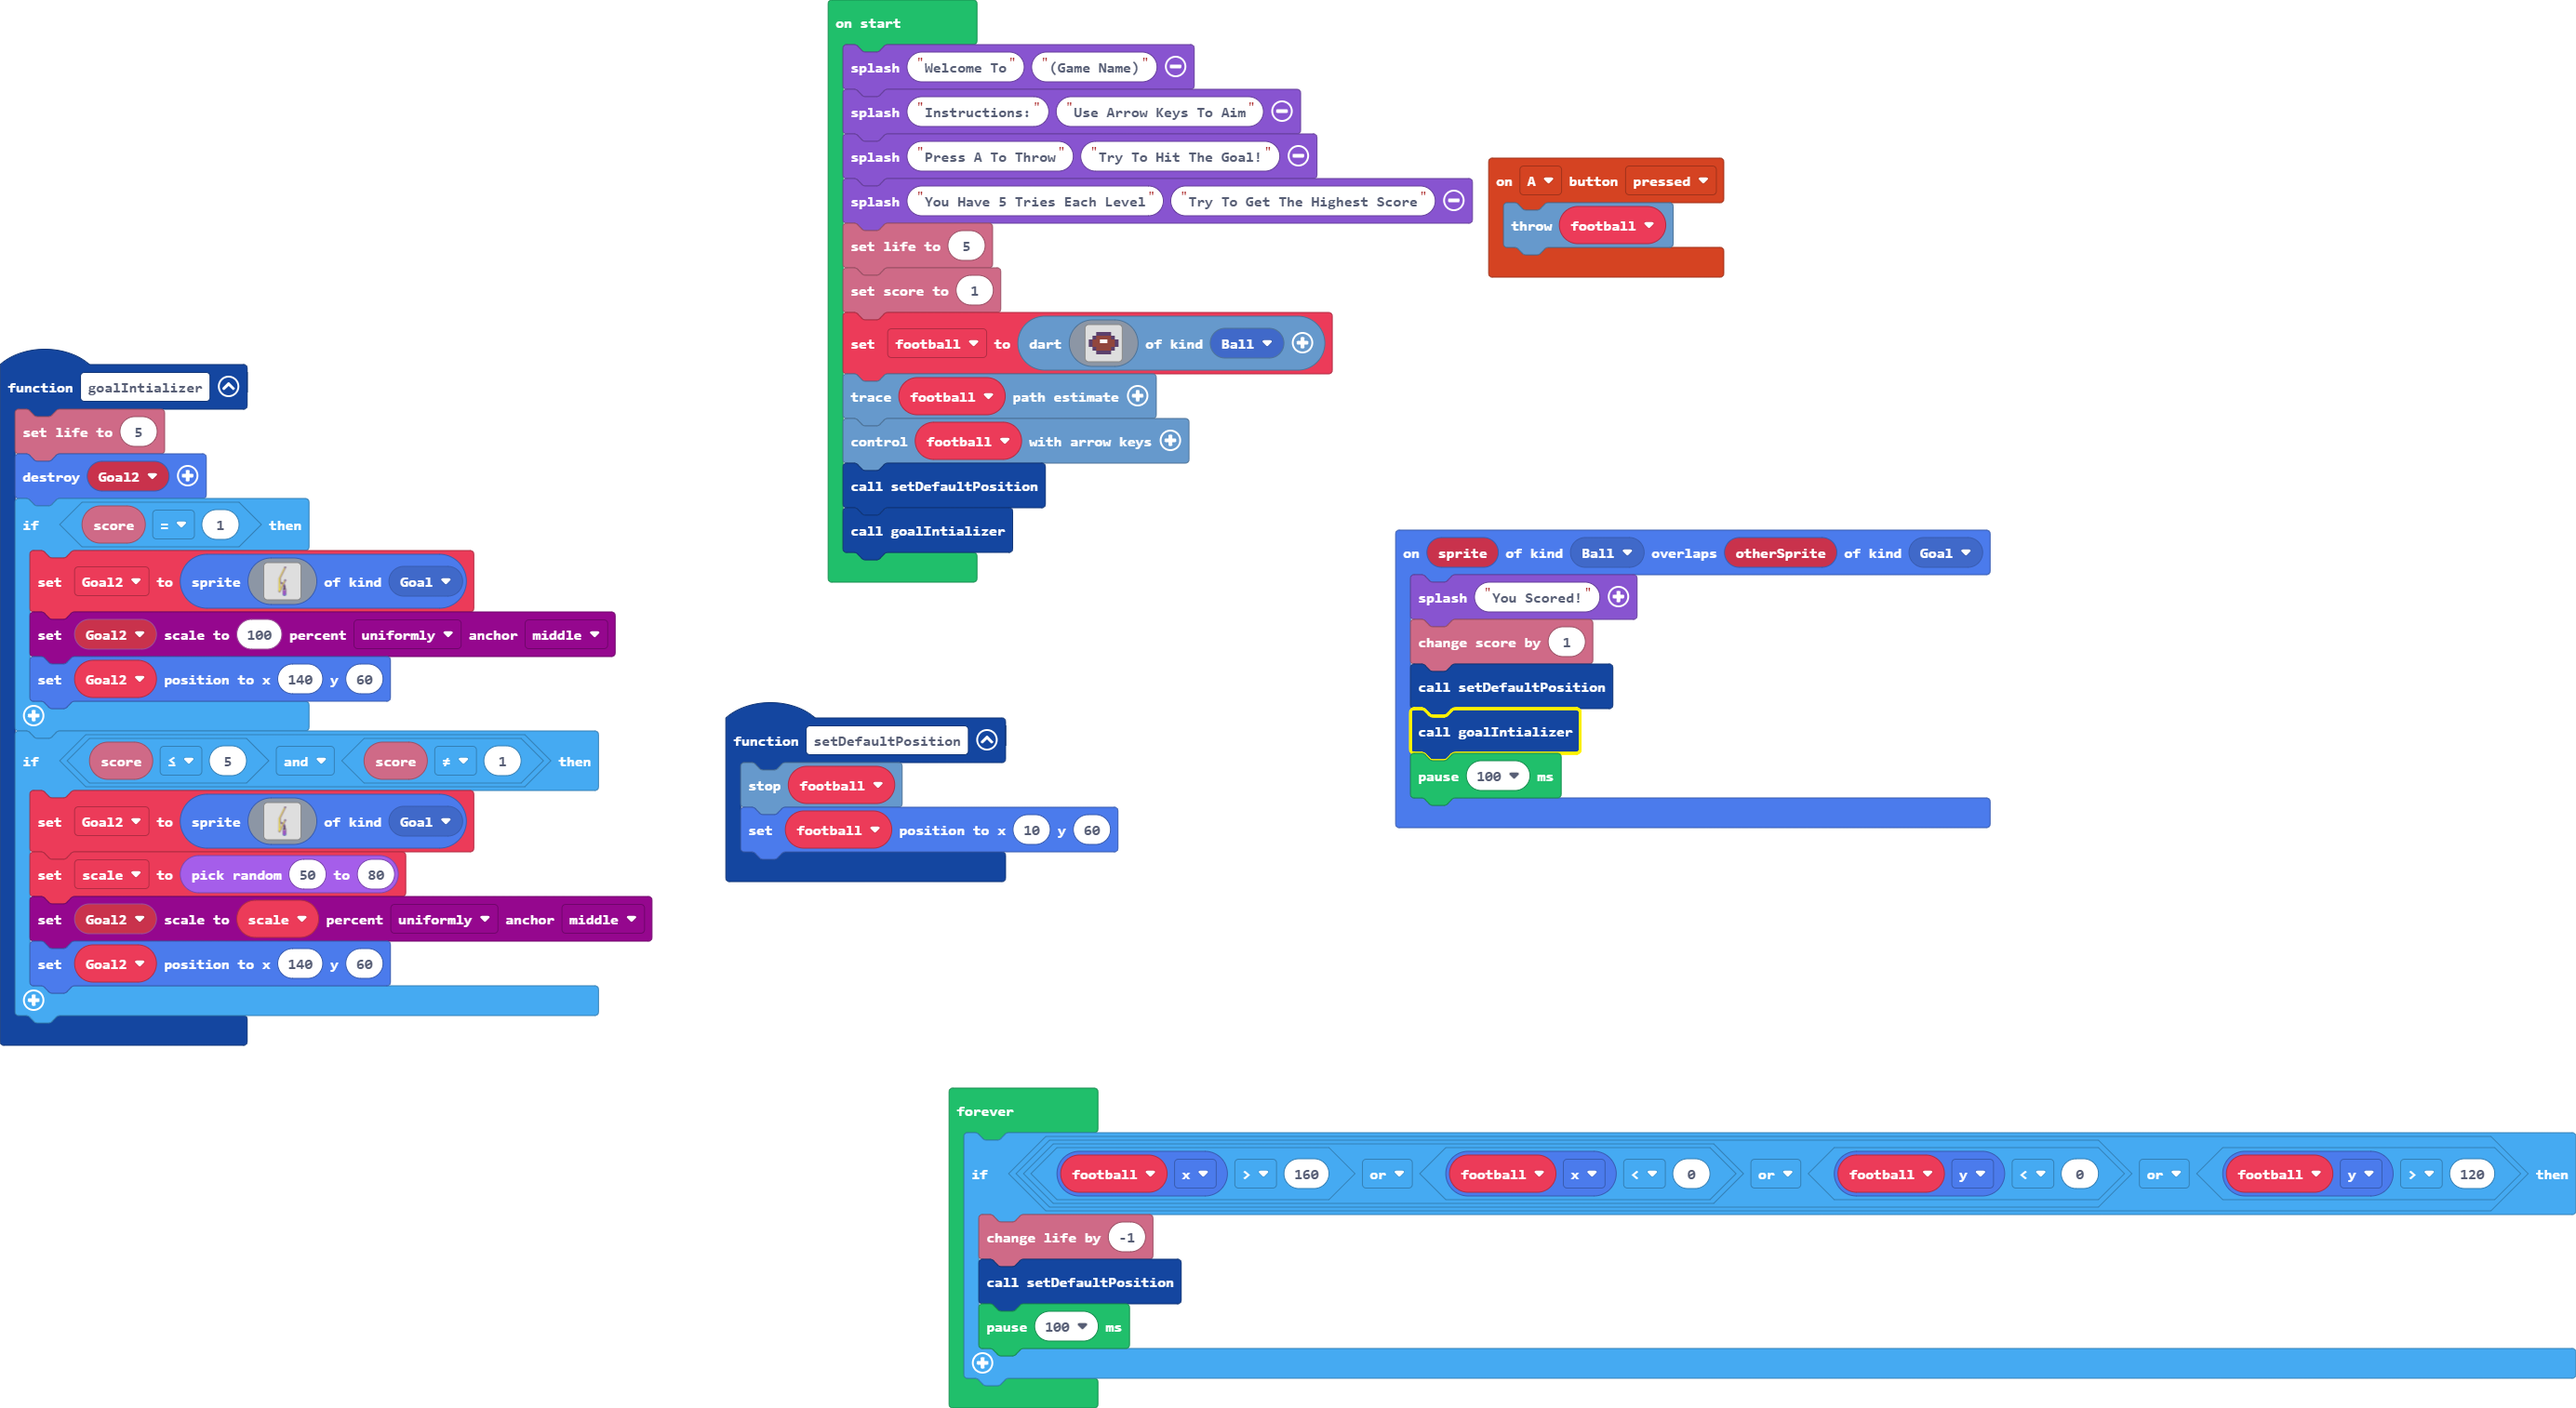
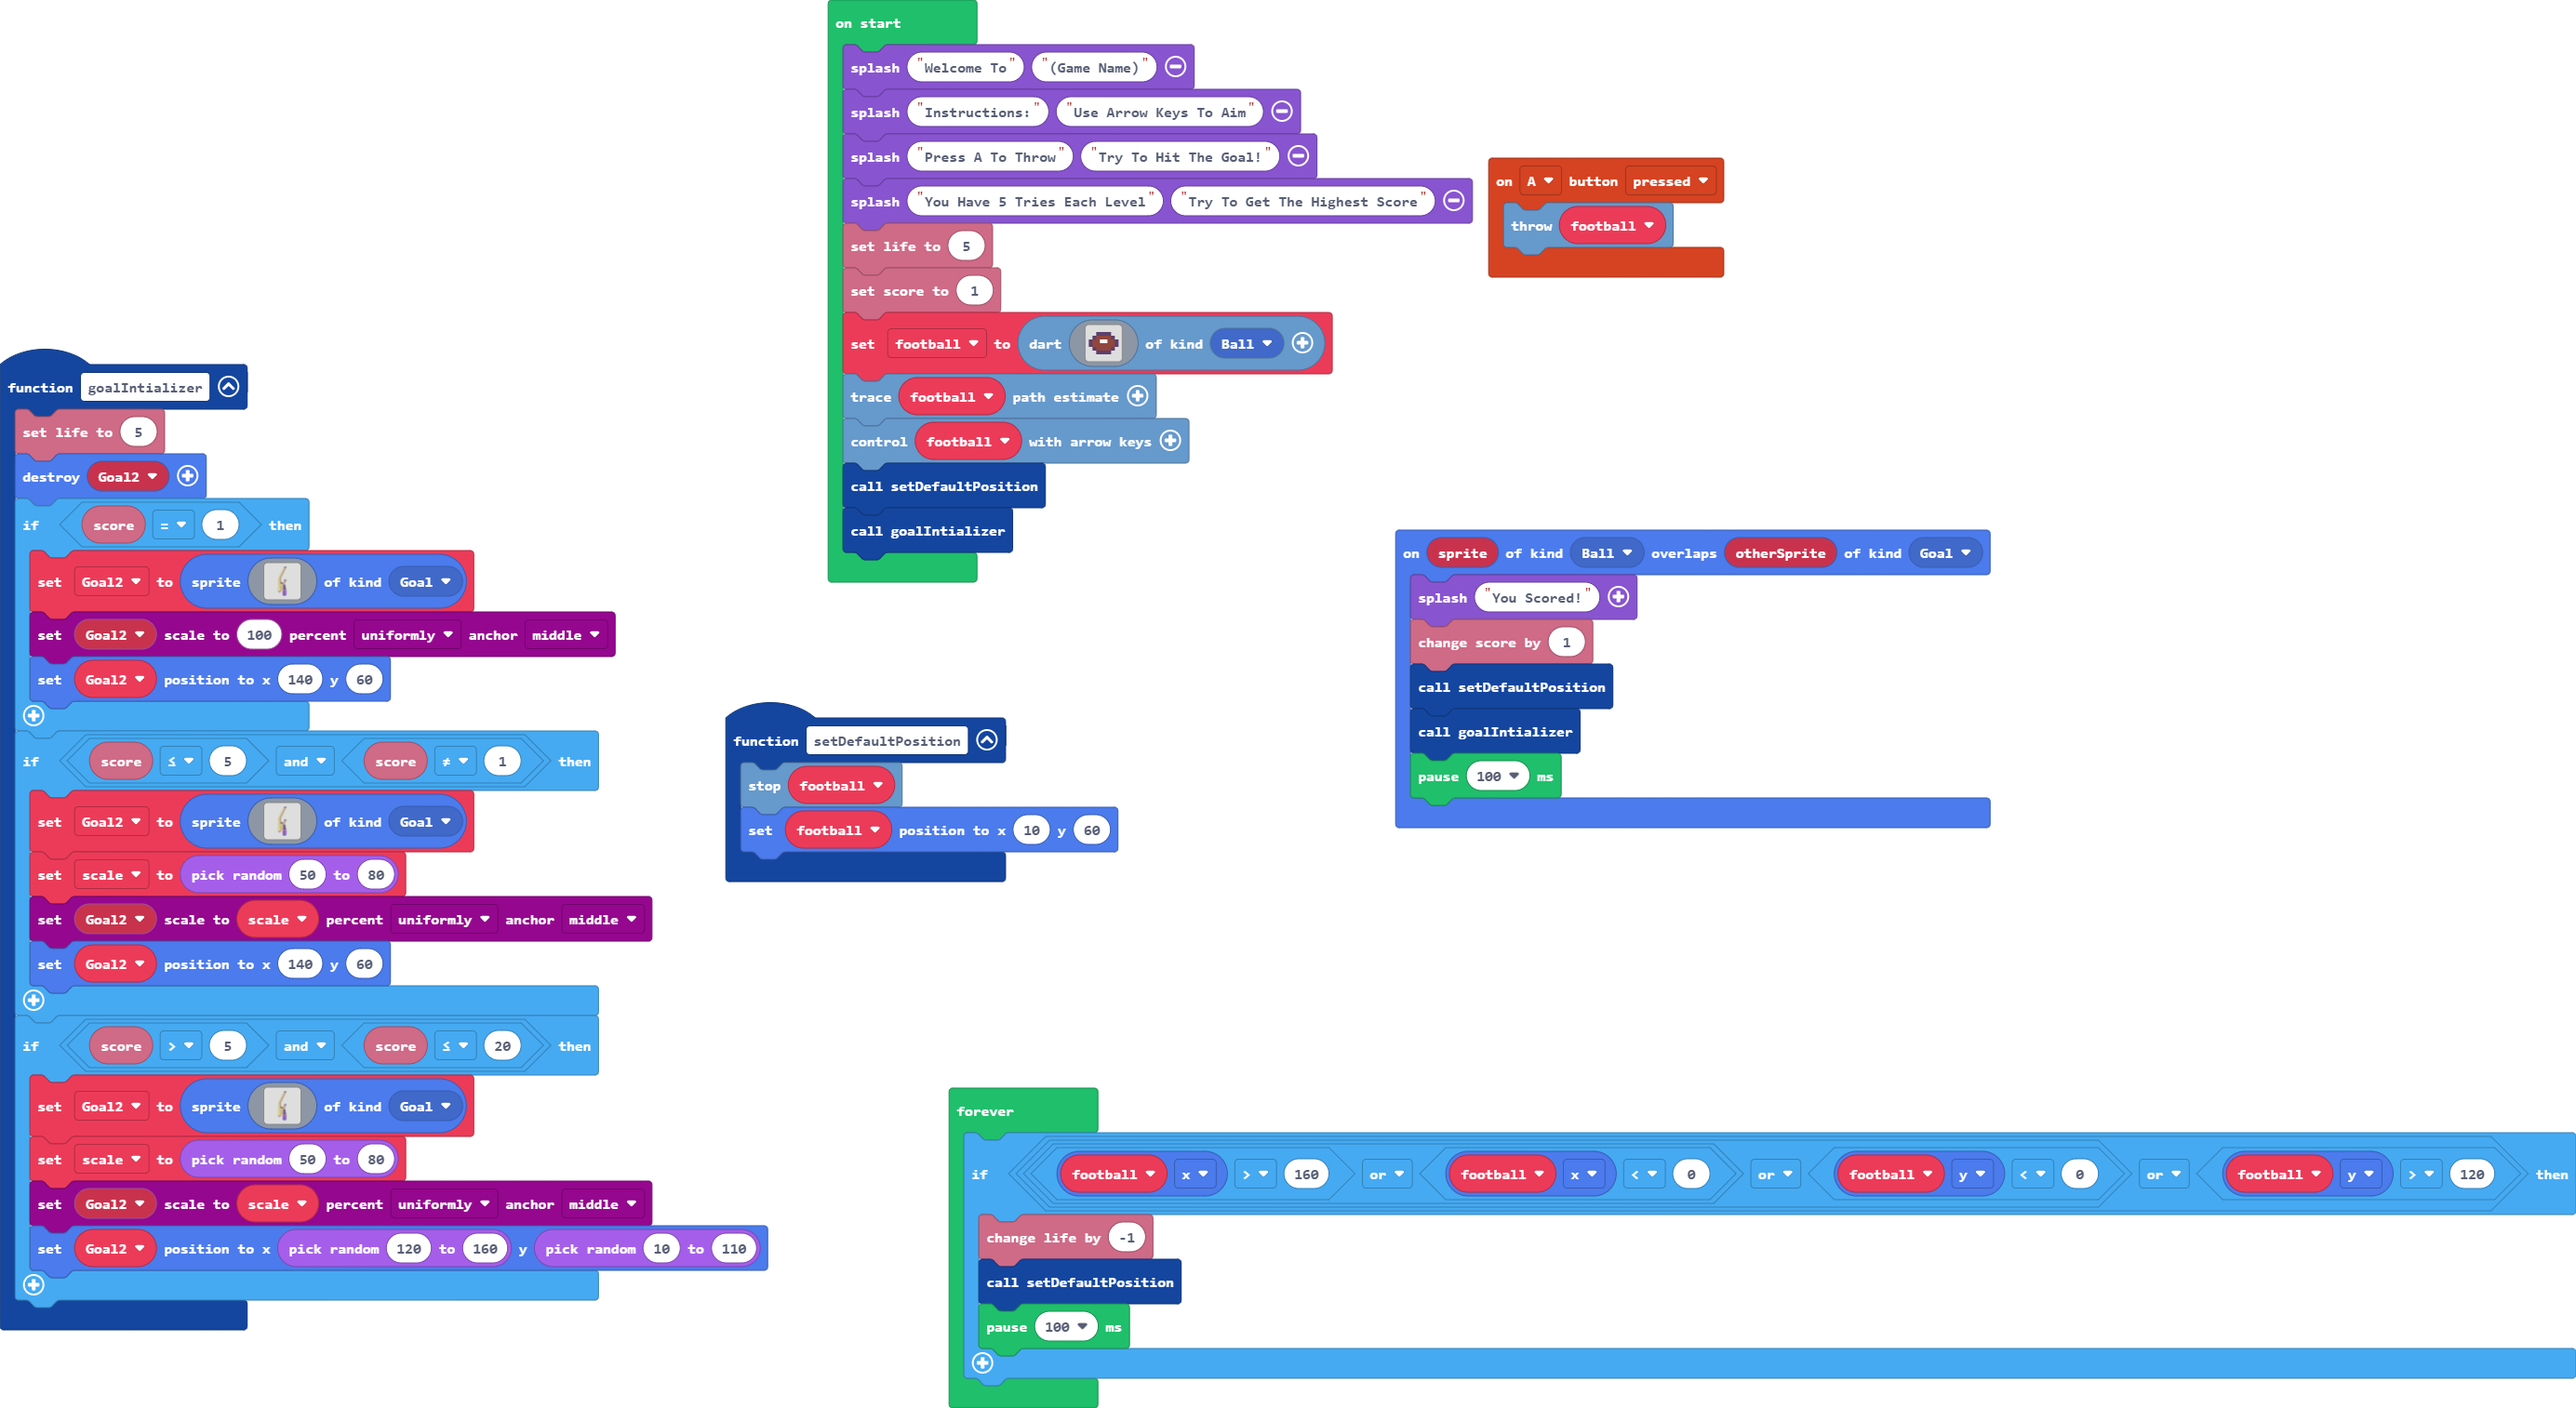
Update main.blocks, main.ts

Changed region(s): [[0.0, 0.714, 0.3106, 0.9624]]

diff --git a/main.ts b/main.ts
@@ -149,6 +149,77 @@ function goalIntializer () {
         scaling.scaleToPercent(Goal2, scale, ScaleDirection.Uniformly, ScaleAnchor.Middle)
         Goal2.setPosition(140, 60)
     }
+    if (info.score() > 5 && info.score() <= 20) {
+        Goal2 = sprites.create(img`
+            .............cc.
+            ............cbbc
+            ............cbbc
+            ...........b5cc.
+            ...........b5bb.
+            ..........b55c..
+            ..........b5bb..
+            .........b55c...
+            .........b5bb...
+            ........b55c....
+            ........b5bb....
+            .......b55c.....
+            .......b5bb.....
+            ......b55c......
+            ......b5bb......
+            .....b55c.......
+            .....b5bb.......
+            ....b55c........
+            ....b5bb........
+            ...b55c.........
+            ...b5bb.........
+            ..b55c..........
+            ..b5bb..........
+            .b55c...........
+            .b5bb...........
+            b55c............
+            b55c............
+            b55c............
+            b55c.........cc.
+            b55c........cbbc
+            b55c........cbbc
+            b55c.......b5cc.
+            b55c.......b5bb.
+            b55c......b55c..
+            b55bccc...b5bb..
+            b55bbbbccc55c...
+            b55bcccbcc5bb...
+            b55b..ccb55c....
+            b55b...cc5bbc...
+            b55b...b55cbc...
+            b55b...b5bbcac..
+            b55b..b55c.fac..
+            b55b..b5bb.faf..
+            b55b.b55c..faf..
+            b55b.b5bb..faf..
+            b55bb55c...faf..
+            b55bb5bb...faf..
+            b55b55c...cfafc.
+            b5555bb..cbfafbc
+            b5555c...cdfffdc
+            b555bb...cdcfcdc
+            c555c....cadddac
+            c55bb....caaaaac
+            c55c.....caaaaac
+            c5bb.....caaaaac
+            .cc......caaaaac
+            .........caaaaac
+            .........caaaaac
+            .........caaaaac
+            .........8aaaaa8
+            .........8aaaaa8
+            .........6aaaaa6
+            ..........6aaa6.
+            ...........666..
+            `, SpriteKind.Goal)
+        scale = randint(50, 80)
+        scaling.scaleToPercent(Goal2, scale, ScaleDirection.Uniformly, ScaleAnchor.Middle)
+        Goal2.setPosition(randint(120, 160), randint(10, 110))
+    }
 }
 function setDefaultPosition () {
     football.stopDart()
